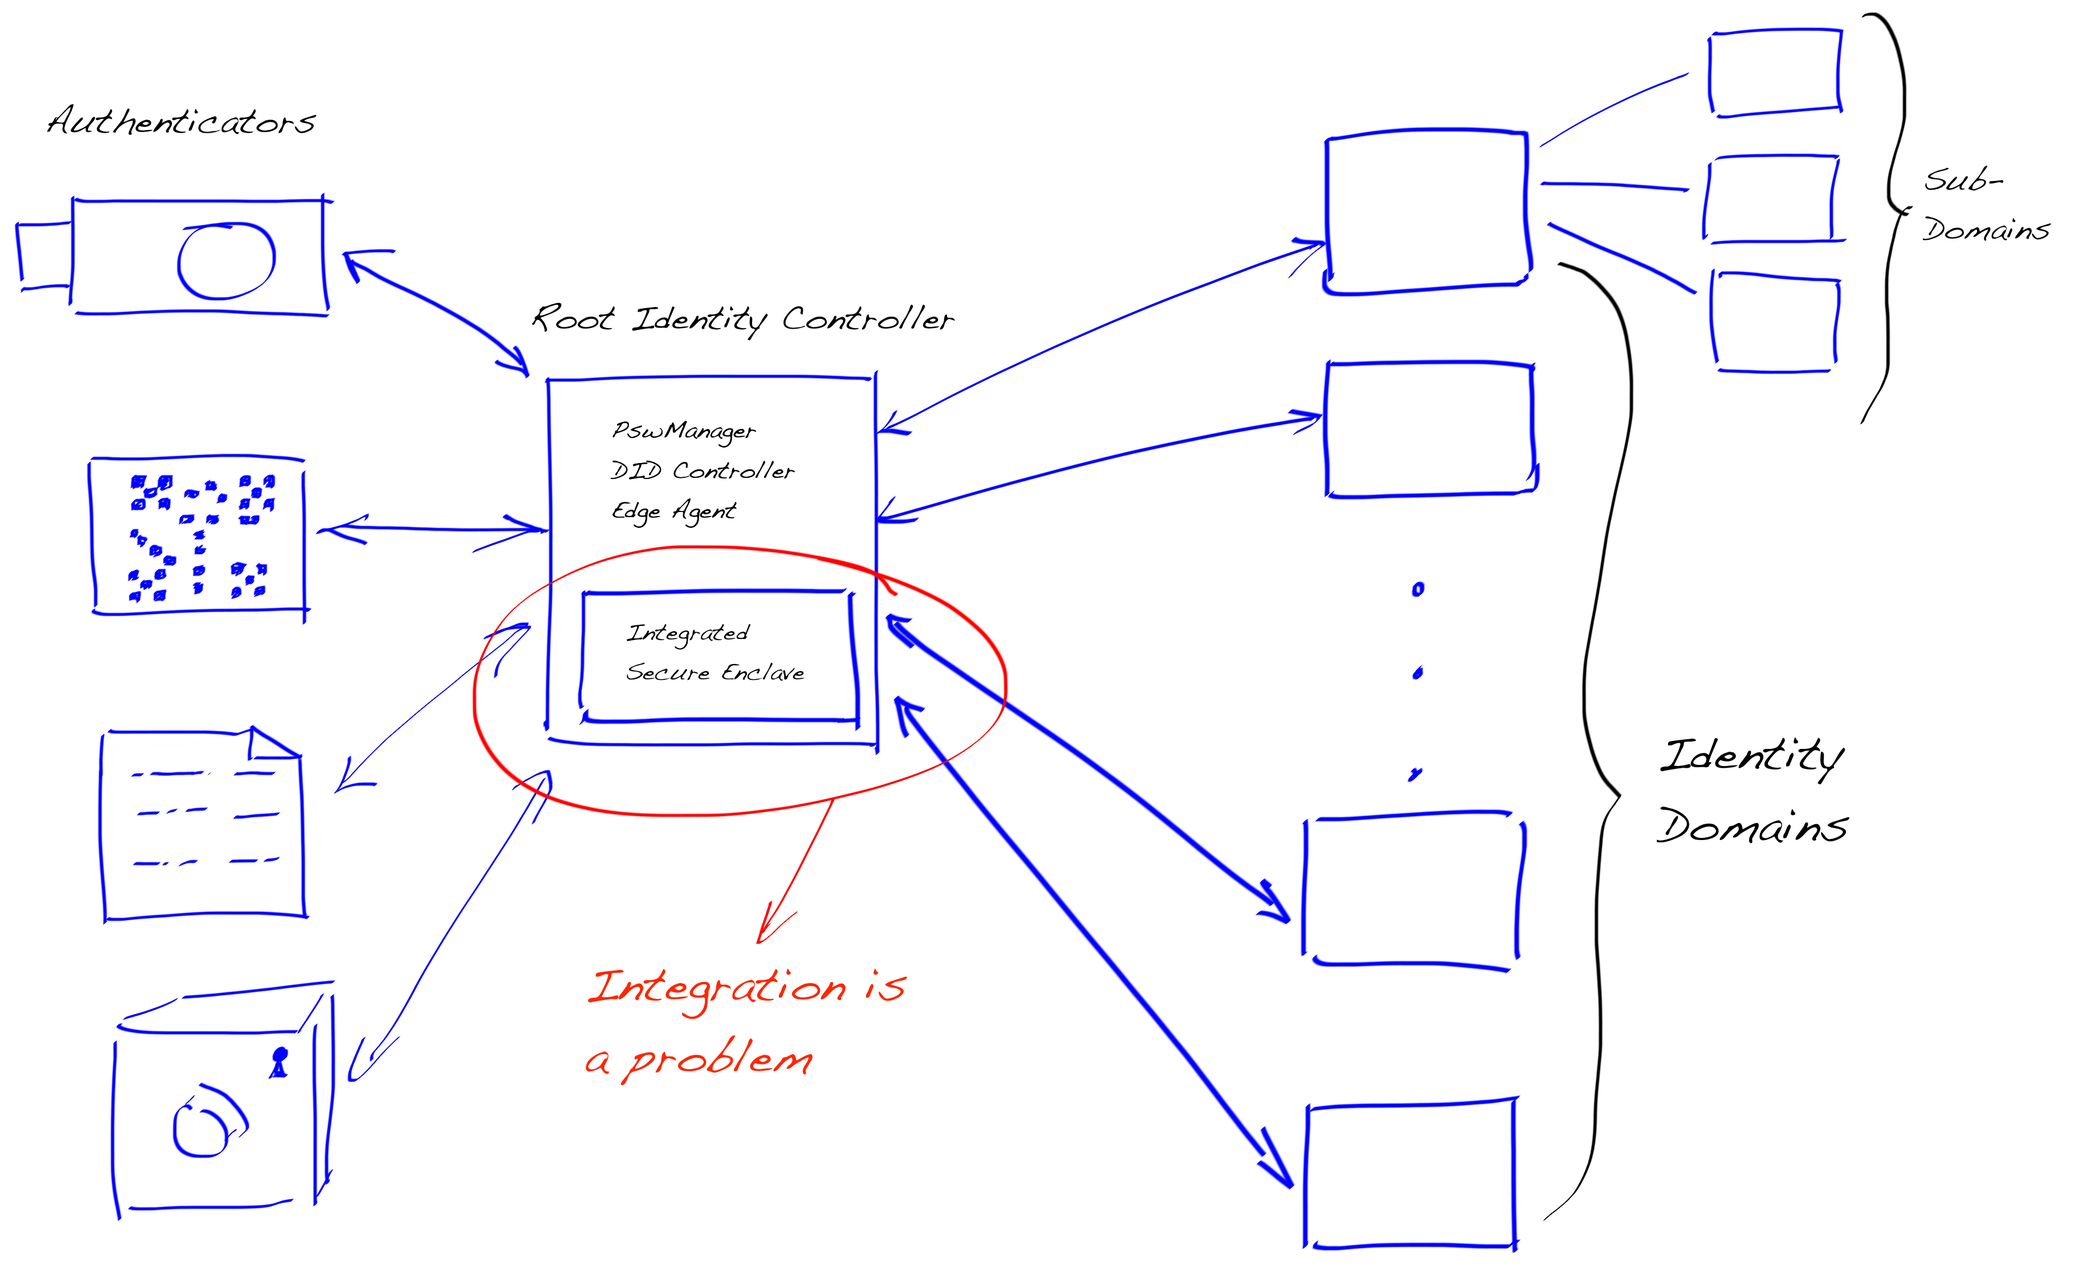
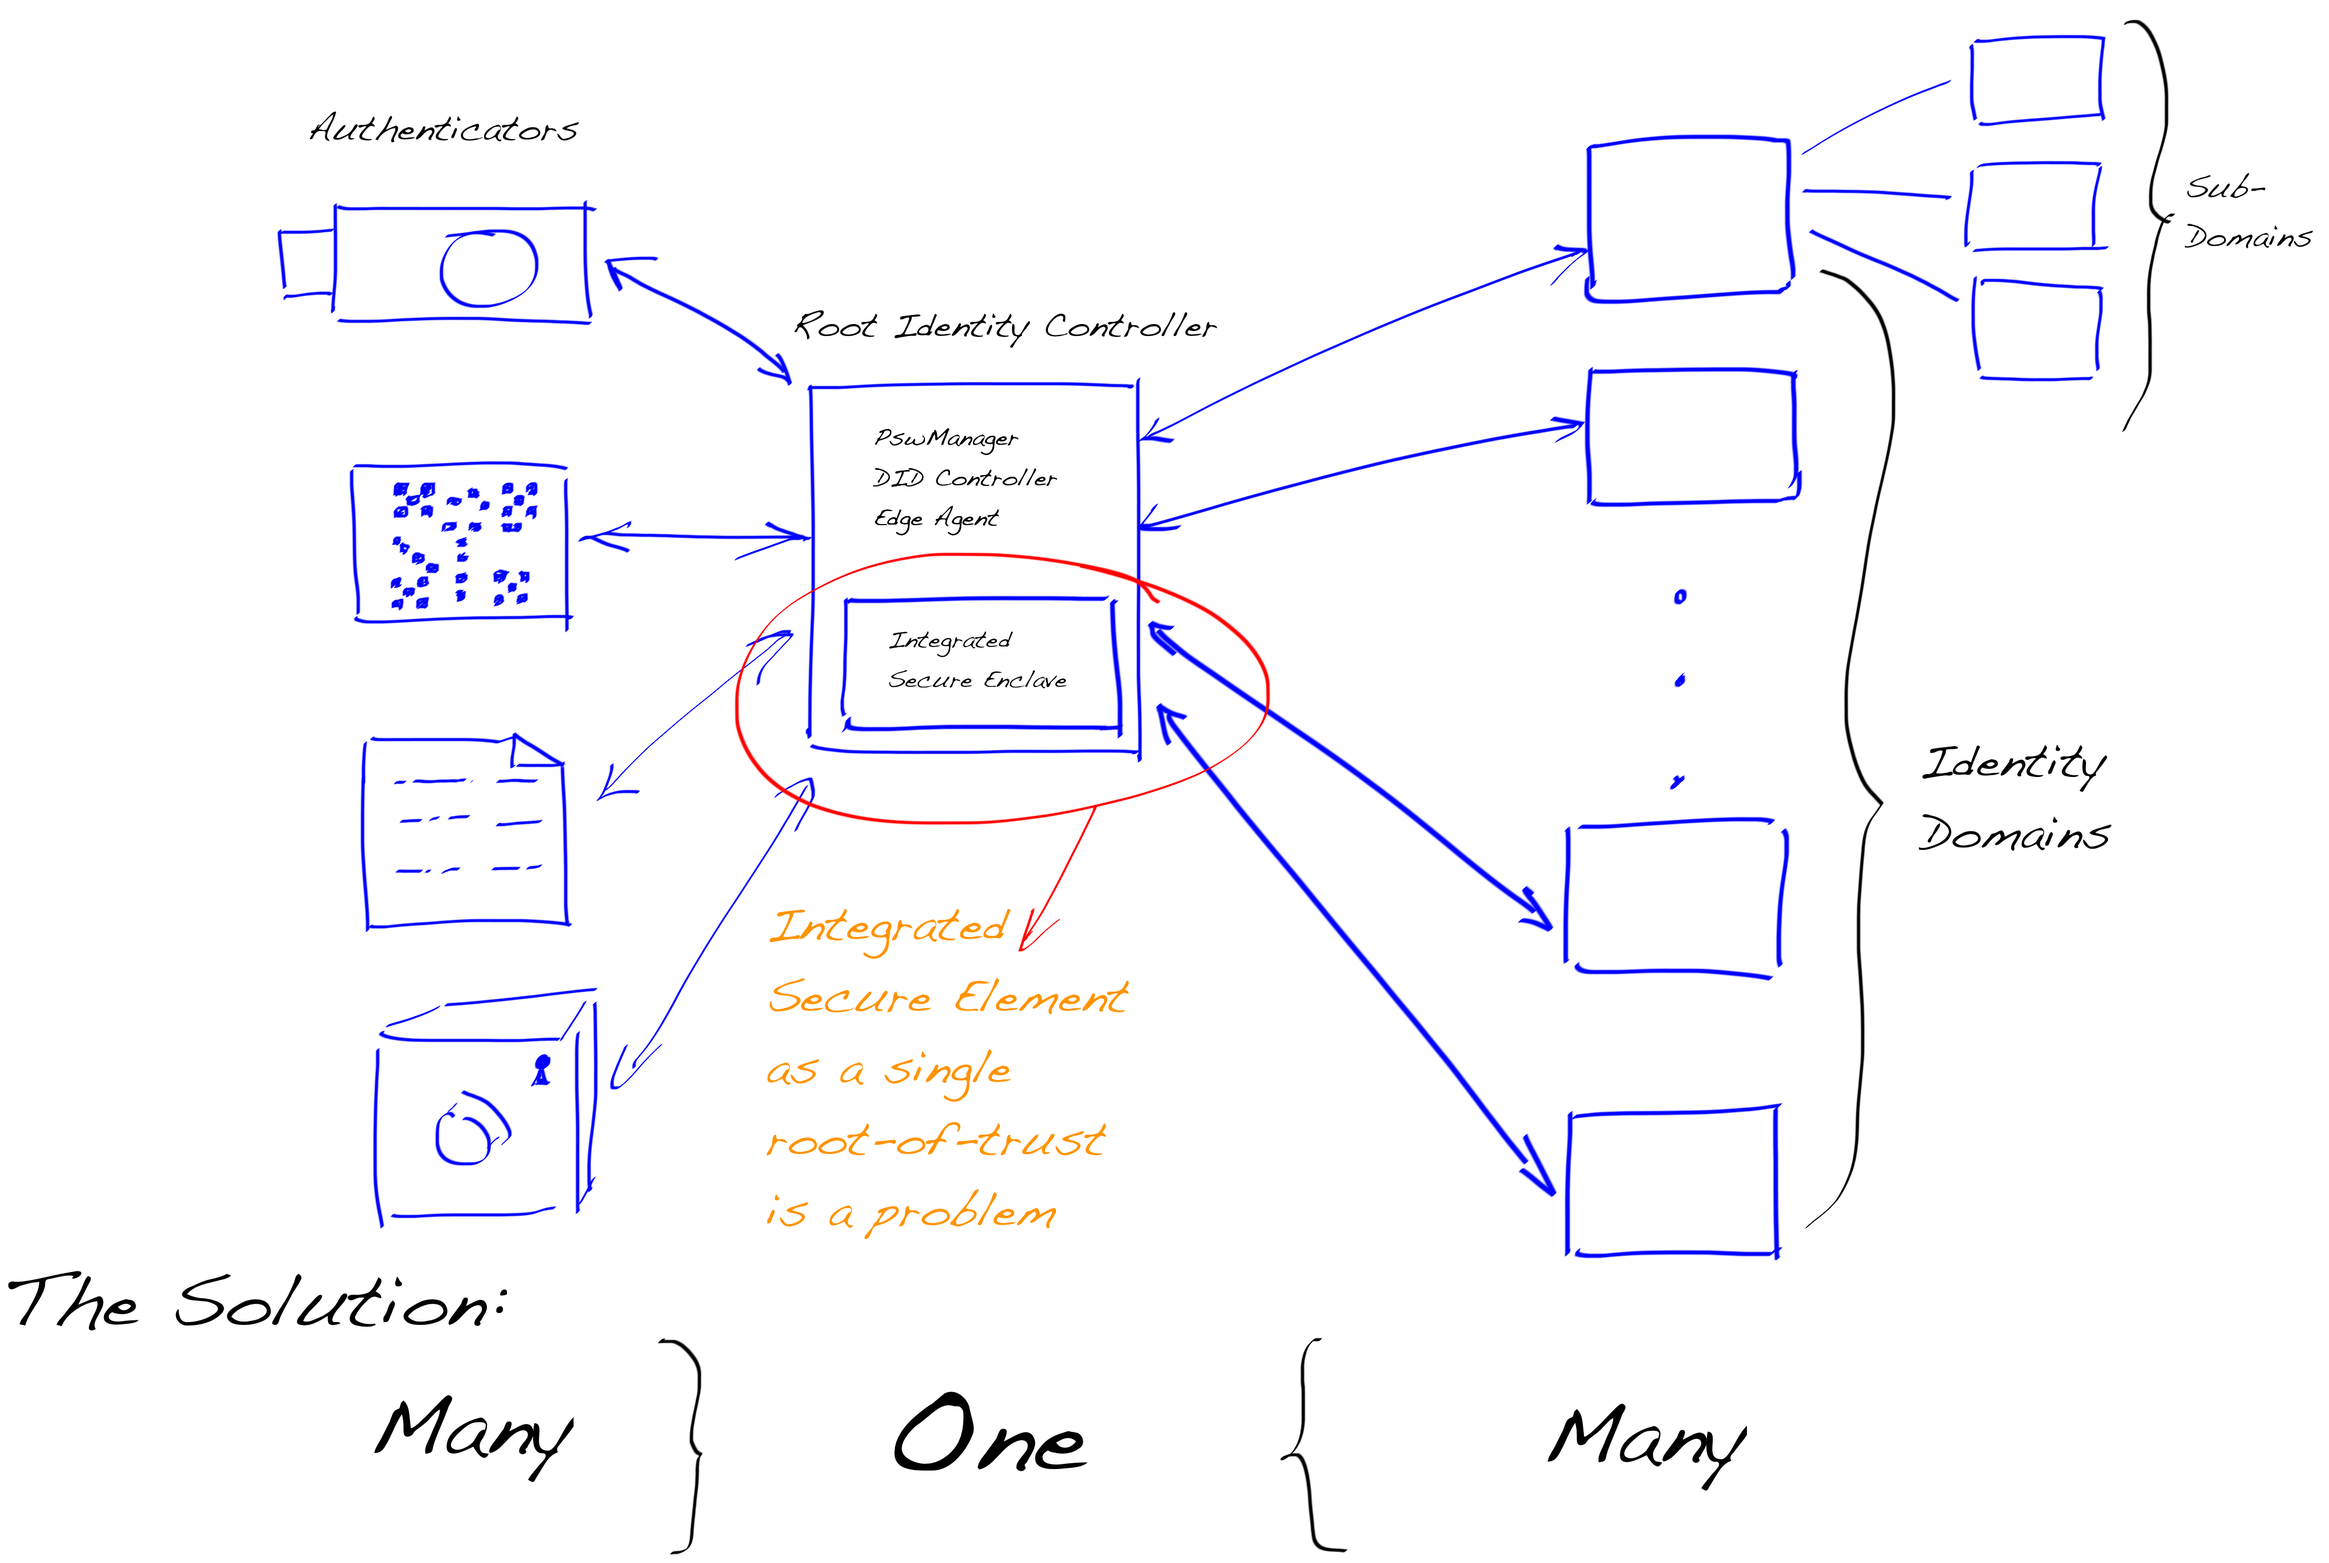
review modifications, thanks Laura

diff --git a/content/en/blog/trust-chain/index.md b/content/en/blog/trust-chain/index.md
@@ -38,26 +38,28 @@ asymmetric cryptography like
 [trust-on-first-use](https://en.wikipedia.org/wiki/Trust_on_first_use).
 
 <img src="https://upload.wikimedia.org/wikipedia/commons/e/e7/Man_in_the_middle_attack.svg" width="400" height="10" />
-<p align = "center"> MITM - Wikipedia </p>
+<p align = "center"> MITM - <a href="https://upload.wikimedia.org/wikipedia/commons/e/e7/Man_in_the_middle_attack.svg">Wikipedia</a></p>
 
 It's trivial to execute [MITM](https://en.wikipedia.org/wiki/Man-in-the-middle_attack)
-attach if we cannot be sure that the public key source is the one it
+attack if we cannot be sure that the public key source is the one it
 should be. The industry has developed different ways to make sure that presented
 details are valid. That lays down one of the most fundamental aspects of modern
 cryptographic systems -- [chain of
 trust](https://en.wikipedia.org/wiki/Chain_of_trust).
  
 ![Trust Chain](https://upload.wikimedia.org/wikipedia/commons/0/02/Chain_Of_Trust.svg)
-<p align = "center"> PKI Chain of trust - Wikipedia </p>
+<p align = "center"> PKI Chain of trust - <a href="https://upload.wikimedia.org/wikipedia/commons/0/02/Chain_Of_Trust.svg">Wikipedia</a></p>
 
 It is essential to understand that most of the modern security protocols use
 public-key cryptography only for
 [authentication](https://en.wikipedia.org/wiki/Authentication) and switch to
 [symmetric keys](https://en.wikipedia.org/wiki/Symmetric-key_algorithm) during
-the data transfer for performance reasons.
+the data transfer for performance reasons. The famous example of this kind of
+protocol is [Diffie-Hellman](https://en.wikipedia.org/wiki/Diffie%E2%80%93Hellman_key_exchange)
+where the shared secret (the symmetric key) is transported over public network.
 
 The [DIDComm](https://github.com/hyperledger/aries-rfcs/blob/main/concepts/0005-didcomm/README.md)
-a protocol is something that is not used only for authentication but
+protocol is something that is not used only for authentication but
 communication without sacrificing privacy. My prediction is that the current
 message-oriented DIDComm protocol as a holistic transport layer is not enough.
 The ongoing [DIDComm
@@ -105,9 +107,9 @@ As long as we stay in a digital world, it is easiest to bind the controller to
 its DID is by using public-key cryptography. The one who has DID controller's
 private key is the actual controller.
 
-For instance, an essential thing for SSI is *a DID pairwise*, i.e. the secure
-the connection between two DIDs or DID
-[services](https://www.w3.org/TR/did-core/#dfn-service).  Unfortunately, W3C's
+For instance, an essential thing for SSI is *a DID pairwise*, i.e. a secure
+connection between two DIDs or DID
+[services](https://www.w3.org/TR/did-core/#dfn-service). Unfortunately, W3C's
 specifications don't underline that enough. Probably because it concentrates on
 external properties of DIDs and how the presented specification can implement
 different methods. But DIDs cannot work on their own properly. They need to have
@@ -117,6 +119,7 @@ present the entity they are pointing, should I say, alone. DIDs present a
 different contexts.
 
 ![DID Concepts](https://www.w3.org/TR/did-core/diagrams/did_brief_architecture_overview.svg)
+<p align = "center"> DID Concepts - <a href="https://www.w3.org/TR/did-core/diagrams/did_brief_architecture_overview.svg">www.w3.org</a></p>
 
 In the digital world, it is expected that a controller has its controller, which
 has its controller, etc. When public-key cryptography is used to verify this
@@ -163,8 +166,8 @@ controller, SSI Edge Agent, etc.
 That is how we first thought our edge agent implementation where the mobile
 device's secure element was felt as a cryptographic root-of-trust for an
 identity domain that can be individual, organization, etc. However, that leads
-to many unnecessary problems in protocol implementation. Most importantly, what
-point of the end-to-end protocol we should implement the use cases like:
+to many unnecessary problems in protocol implementation. Most importantly, to
+which part of the end-to-end protocol we should implement the use cases like:
 
 - I want to use my identity domain from iPhone, iPad, etc. same time.
 - I want to have a 'forget password' -type recovery option (by doing nothing)
@@ -230,7 +233,7 @@ the entity needs to be authenticated: individuals, organizations, legal
 entities, or system components. For us, it implicated that we needed FIDO2 for
 service agents, which meant that a *headless* FIDO2 Authenticator was required.
 
-{{< imgproc cover-deployment.png Resize "1591x" >}}
+{{< imgproc DeploymentArchitecture.png Resize "1591x" >}}
 <em>All Key Components of The System Architecture</em>
 {{< /imgproc >}}
 
@@ -245,7 +248,7 @@ components work. Here we focus on the two most important ones. The first is the
 authenticator registration flow which is presented picture below.
 
 ![WebAuthn Registration](https://www.w3.org/TR/webauthn/images/webauthn-registration-flow-01.svg)
-<p align = "center"> FIDO2 Authenticator Registration - www.w3.org </p>
+<p align = "center"> FIDO2 Authenticator Registration - <a href="https://www.w3.org/TR/webauthn/images/webauthn-registration-flow-01.svg">www.w3.org</a></p>
 
 To summarise, the above flow registers a new instance of an authenticator. Then
 it verifies that the same authenticator is bound to the account. That is done
@@ -258,27 +261,27 @@ The flow below shows how a registered authenticator is used to authenticate the
 account holder.
 
 ![WebAuthn Authentication](https://www.w3.org/TR/webauthn/images/webauthn-authentication-flow-01.svg)
-<p align = "center"> FIDO2 Authentication - www.w3.org </p>
+<p align = "center"> FIDO2 Authentication - <a href="https://www.w3.org/TR/webauthn/images/webauthn-authentication-flow-01.svg">www.w3.org</a></p>
 
-The Command pattern was the perfect solution for the first implementation
-because it supported all of our use cases, but same time was simplest. Most
-straightforward to integration was naturally with a programming language it was
-implemented which was Go.
+The Command pattern was the perfect solution for the first authenticator
+implementation because it supported all of our use cases, but same time was
+simplest. Most straightforward to integration was naturally with a programming
+language it was implemented which was Go.
 
 The second thing was to figure out how we would like to implement interprocess
 communication. For that, the command pattern is suited very well. Fill the
 command with all the needed data and give one of the operations we were
 supporting: `register` and `login` from the FIDO2 standard. The process
 communication is handled just as the process starts by reading the command from
-JSON. That is suited for node.js use as well. (For the record, my fantastic
-colleague Laura did all the needed node.js work.)
+JSON. That is suited for Node.js use as well. (For the record, my fantastic
+colleague Laura did all the needed Node.js work.)
 
-When we considered a security, we followed our post-compromise principle. We
+When we considered security, we followed our post-compromise principle. We
 didn't (yet) try to solve the situation where someone managed to hack the server
 and hook a debugger to our processes without our notice. To solve that, we need
 [TEE](https://en.wikipedia.org/wiki/Trusted_execution_environment) or similar.
 Our specification is ready, but before the implementation, we should think if
-it's worth it.
+it's worth it, and about the use case we are implementing.
 
 ### Stateless Authenticator
 
@@ -295,7 +298,7 @@ service, there is the next tenancy level.
 Before I started to write the whole thing, I thought that I use our server-side
 secure enclave to store all the key pairs there and let the tenant set the
 enclave's master key. It would still mean that the implementation would be
-state-full. From the operations ' perspective, we all know what that means: more
+state-full. From the operations' perspective, we all know what that means: more
 things to take care of and manage, but most importantly, one potential
 scalability issue to solve.
 
@@ -333,9 +336,10 @@ be done with help cloud
 or we can implement an application with the help of [AWS
 Nitro Enclaves](https://aws.amazon.com/ec2/nitro/nitro-enclaves/) or similar.
 
-**Note!** This is not a good solution for a pure client-side software-based
-authenticator. It's suitable for *hardware-based and certain types of
-server-side solutions* where you can use TEE or similar solutions.
+**Note!** This is not a good solution for a pure client-side *software-based*
+authenticator, because it needs help from the hardware, i.e. secure enclave.
+It's suitable for *hardware-based and certain types of server-side solutions*
+where you can use TEE or similar solutions.
 
 ## Conclusion
 
@@ -344,8 +348,9 @@ transport combined with JWT authorization has been straightforward to use. Our
 gRPC SDK allows you to implicitly move the JWT token during the API calls after
 opening the server connection. Plus, gRPC's capability to have bidirectional
 streams make the programming experience very pleasant. Finally, an option is to
-authenticate the gRPC connection between server and client with self-signed TLS
-certificates: You can authorize software components to bind to your deployment.
+authenticate the gRPC connection between server and client with (no PKI is
+needed) TLS certificates: You can authorize software components to bind to your
+deployment.
 
 The SDK and the API we have built with this stack have fulfilled all our
 expectations:

diff --git a/README.md b/README.md
@@ -22,6 +22,11 @@ Findy Agency technical documentation and blog.
    git clone --recurse-submodules --depth 1 git@github.com:findy-network/findy-network.github.io.git
    ```
 
+   To get, e.g. `dev` branch from the server:
+   ```bash
+   git fetch origin dev:dev
+   ```
+
 1. Install dependencies
 
    ```bash
@@ -29,15 +34,23 @@ Findy Agency technical documentation and blog.
    npm install
    ```
 
-1. Run hugo (`make run` just added)
+1. Run hugo
 
+   By using a make rule `run` that will start hugo to be visible for the whole
+   LAN or for `ngrok`.
+   ```bash
+   make run
    ```
+   
+
+   Naturally you can start it with hugo
+   ```bash
    hugo server
    ```
 
    Or if you need to connect from some other host in the same network.
 
-   ```
+   ```bash
    hugo server --bind=0.0.0.0 --baseURL=http://0.0.0.0:1313
    ```
 
@@ -46,7 +59,9 @@ Findy Agency technical documentation and blog.
 
 1. Problem Solving:
    - use extended version
-   - use latest version
+   - first `git` cloning or must be used to get submodules (or to use some other
+     methods to get them)
+   - use latest version of hugo
    - when writing a blog post's hugo header be aware that the `date:` field tell
      hugo when to publish. If you are currently constructing the post **and want
      to see the rendering result use current or previous date**.
